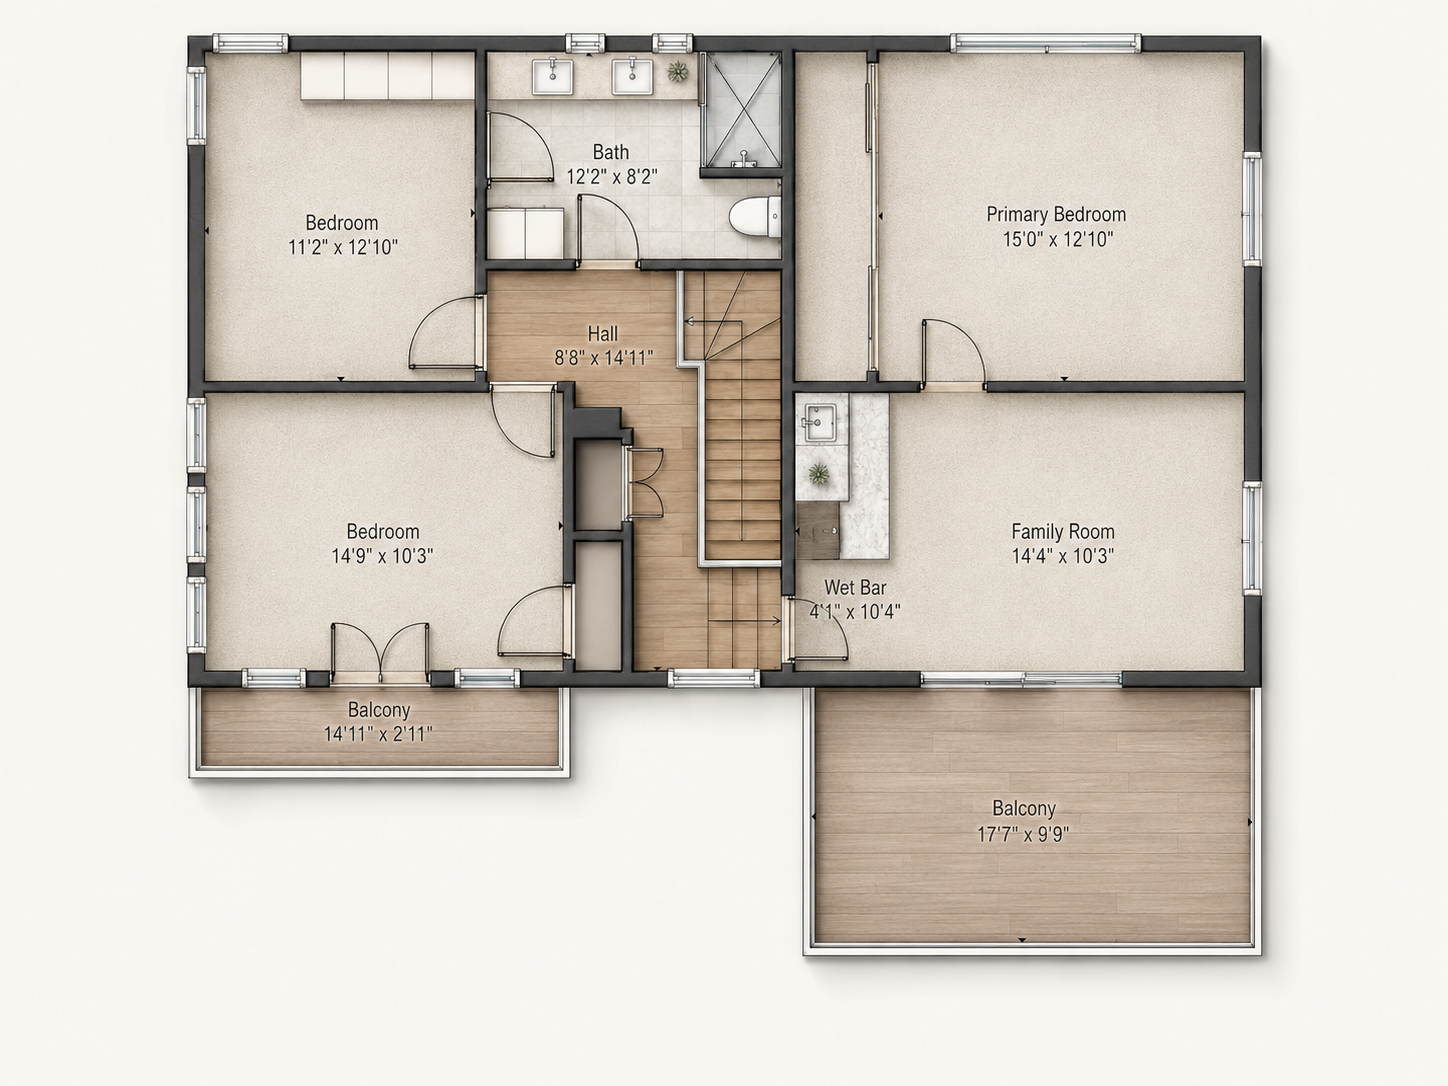
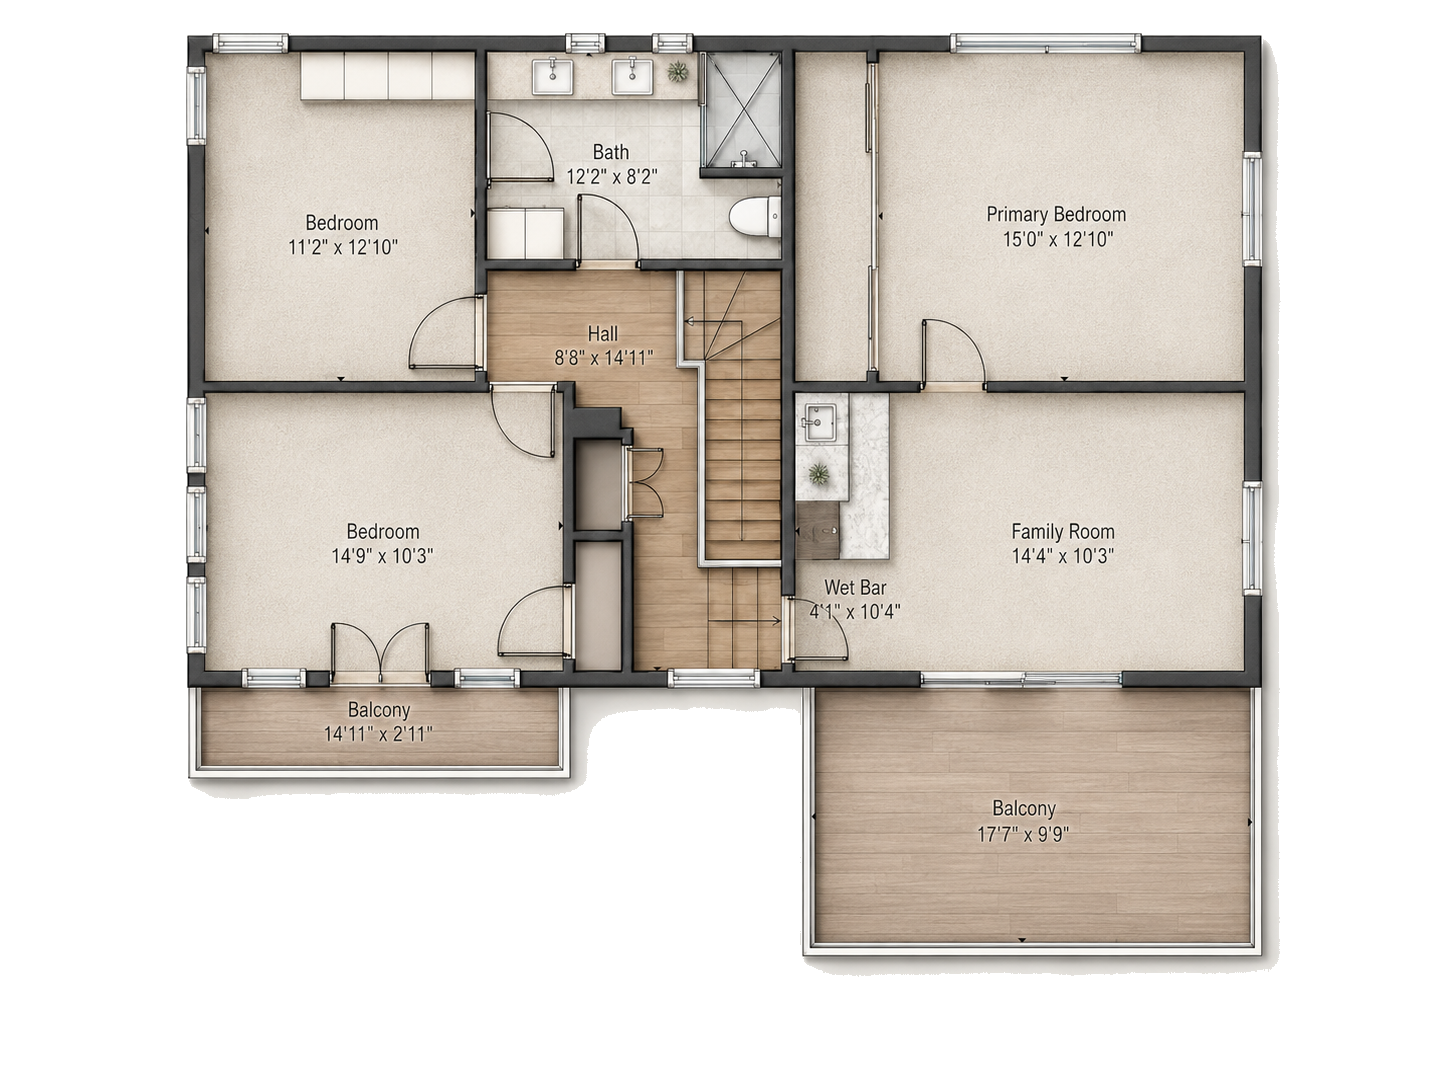
847 Sierra Bonita: fix back-house baths (4 total), patio last in back gallery, drop 'Illustrated', transparent floor-plan bg, remove second-home rent est. + comps section

Changed region(s): [[0.5594, 0.0608, 0.9012, 0.9116], [0.1243, 0.7293, 0.404, 0.7597], [0.404, 0.6381, 0.5594, 0.7293]]

diff --git a/website/properties/847-n-sierra-bonita/index.html b/website/properties/847-n-sierra-bonita/index.html
@@ -4,7 +4,7 @@
 <meta charset="UTF-8">
 <meta name="viewport" content="width=device-width, initial-scale=1.0">
 <title>847 N Sierra Bonita Ave, Los Angeles CA 90046 — Two-Home Duplex Compound | AMRE</title>
-<meta name="description" content="847 N Sierra Bonita Ave — a rare two-home duplex compound in the heart of Los Angeles, held by one family for over 60 years. Front home 4 bd / 2 ba, back home 3 bd / 2.5 ba (two-story), on a 6,510 sq ft lot. Offered by AMRE Real Estate Group at Compass.">
+<meta name="description" content="847 N Sierra Bonita Ave — a rare two-home duplex compound in the heart of Los Angeles, held by one family for over 60 years. Front home 4 bd / 2 ba, back home 3 bd / 2 ba (two-story), on a 6,510 sq ft lot. Offered by AMRE Real Estate Group at Compass.">
 <meta name="author" content="AMRE Real Estate Group">
 <meta name="robots" content="index,follow,max-image-preview:large">
 <link rel="canonical" href="https://amre.group/properties/847-n-sierra-bonita/">
@@ -12,7 +12,7 @@
 <meta property="og:type" content="website">
 <meta property="og:site_name" content="AMRE Real Estate Group">
 <meta property="og:title" content="847 N Sierra Bonita Ave — Two-Home Duplex Compound | Los Angeles">
-<meta property="og:description" content="A rare two-home duplex compound in the heart of L.A., held by one family for 60+ years. 7 bd · 4.5 ba · 3,391 sq ft combined on a 6,510 sq ft lot.">
+<meta property="og:description" content="A rare two-home duplex compound in the heart of L.A., held by one family for 60+ years. 7 bd · 4 ba · 3,391 sq ft combined on a 6,510 sq ft lot.">
 <link rel="preconnect" href="https://fonts.googleapis.com">
 <link rel="preconnect" href="https://fonts.gstatic.com" crossorigin>
 <link href="https://fonts.googleapis.com/css2?family=Cormorant+Garamond:wght@300;400;500;600&family=Jost:wght@300;400;500&display=swap" rel="stylesheet">
@@ -263,7 +263,7 @@
     <div class="cell"><div class="n">$2,150,000</div><div class="l">Offered At</div></div>
     <div class="cell"><div class="n">2</div><div class="l">Separate Homes</div></div>
     <div class="cell"><div class="n">7</div><div class="l">Bedrooms</div></div>
-    <div class="cell"><div class="n">4.5</div><div class="l">Baths</div></div>
+    <div class="cell"><div class="n">4</div><div class="l">Baths</div></div>
     <div class="cell"><div class="n">3,391</div><div class="l">Combined Sq Ft</div></div>
     <div class="cell"><div class="n">6,510</div><div class="l">Lot Sq Ft</div></div>
   </div>
@@ -356,7 +356,7 @@
     <p>Set at the rear of the lot, the back residence is a spacious two-story home with a family room, wet bar, private balconies, and an oversized primary suite — fully separate from the front home, with its own sense of arrival.</p>
     <ul class="facts">
       <li><span>Bedrooms</span><span>3</span></li>
-      <li><span>Bathrooms</span><span>2.5</span></li>
+      <li><span>Bathrooms</span><span>2</span></li>
       <li><span>Interior</span><span>1,849 sq ft</span></li>
       <li><span>Configuration</span><span>Two-story + balconies</span></li>
     </ul>
@@ -370,8 +370,8 @@
   <figure><img class="lb" data-group="back" src="847-assets/bg5.jpg" alt="Back home bedroom"></figure>
   <figure><img class="lb" data-group="back" src="847-assets/bg6.jpg" alt="Back home primary bath"></figure>
   <figure><img class="lb" data-group="back" src="847-assets/bg7.jpg" alt="Back home bath"></figure>
-  <figure><img class="lb" data-group="back" src="847-assets/bg8.jpg" alt="Back home terrace"></figure>
   <figure><img class="lb" data-group="back" src="847-assets/bg9.jpg" alt="Back home office"></figure>
+  <figure><img class="lb" data-group="back" src="847-assets/bg8.jpg" alt="Back home patio"></figure>
 </div></div>
 <!-- FLOOR PLANS -->
 <section class="cardsec tone" id="plans">
@@ -380,7 +380,7 @@
       <div class="eyebrow">Architectural Plans</div>
       <div class="rule" style="margin:18px auto"></div>
       <h2>Explore every level</h2>
-      <p class="big2x">Illustrated floor plans for both residences — the single-story front home, and the two-story home at the rear.</p>
+      <p class="big2x">Floor plans for both residences — the single-story front home, and the two-story home at the rear.</p>
     </div>
     <div class="plans-stack">
       <div class="planblock">
@@ -437,7 +437,7 @@
         <polygon points="95,60 430,60 430,215 395,300 200,300 200,252 95,252"
                  fill="#3f4a3c" stroke="#2b3329" stroke-width="2"/>
         <text x="250" y="150" text-anchor="middle" class="plabel" fill="#f7f4ee">Back Home</text>
-        <text x="250" y="171" text-anchor="middle" class="pmeta" fill="#e4dcca">3 bd · 2.5 ba · 1,849 sf</text>
+        <text x="250" y="171" text-anchor="middle" class="pmeta" fill="#e4dcca">3 bd · 2 ba · 1,849 sf</text>
         <text x="250" y="188" text-anchor="middle" class="pmeta" fill="#e4dcca">Two-story</text>
         <!-- dimensions -->
         <text x="434" y="16" text-anchor="middle" class="pdim">← approx. 130 ft (lot depth) →</text>
@@ -466,13 +466,12 @@
         <div class="num">Option 01</div>
         <h3>Live in Both</h3>
         <p>Spread out across the full compound — a main home plus a private guest house, studio, or multigenerational wing.</p>
-        <div class="fig"><b>7 bd · 4.5 ba</b><small>3,391 sq ft of living space</small></div>
+        <div class="fig"><b>7 bd · 4 ba</b><small>3,391 sq ft of living space</small></div>
       </div>
       <div class="opt">
         <div class="num">Option 02</div>
         <h3>Live in One, Rent the Other</h3>
         <p>Occupy one residence and lease the other to dramatically offset your monthly cost of ownership.</p>
-        <div class="fig"><b>$—,— / mo</b><small>Est. rent from the second home</small></div>
       </div>
       <div class="opt">
         <div class="num">Option 03</div>
@@ -482,33 +481,6 @@
       </div>
     </div>
     <p class="note">Rental estimates to be confirmed.</p>
-  </div>
-</section>
-<!-- COMPS -->
-<section class="cardsec tone" id="comps">
-  <div class="wrap">
-    <div class="head">
-      <div class="eyebrow">The Market</div>
-      <div class="rule" style="margin:18px auto"></div>
-      <h2>What's happening nearby</h2>
-      <p>Recent nearby sales and current rents that frame the value of 847 Sierra Bonita.</p>
-    </div>
-    <div class="subhead" style="margin-top:0">Recently Sold Comparables</div>
-    <div class="comp-grid">
-      <div class="comp"><div class="ph">Photo</div><div class="body"><div class="addr">[ Comp Address 1 ]</div><div class="meta">— bd · — ba · —,— sf</div><div class="price">$—,—</div></div></div>
-      <div class="comp"><div class="ph">Photo</div><div class="body"><div class="addr">[ Comp Address 2 ]</div><div class="meta">— bd · — ba · —,— sf</div><div class="price">$—,—</div></div></div>
-      <div class="comp"><div class="ph">Photo</div><div class="body"><div class="addr">[ Comp Address 3 ]</div><div class="meta">— bd · — ba · —,— sf</div><div class="price">$—,—</div></div></div>
-      <div class="comp"><div class="ph">Photo</div><div class="body"><div class="addr">[ Comp Address 4 ]</div><div class="meta">— bd · — ba · —,— sf</div><div class="price">$—,—</div></div></div>
-      <div class="comp"><div class="ph">Photo</div><div class="body"><div class="addr">[ Comp Address 5 ]</div><div class="meta">— bd · — ba · —,— sf</div><div class="price">$—,—</div></div></div>
-      <div class="comp"><div class="ph">Photo</div><div class="body"><div class="addr">[ Comp Address 6 ]</div><div class="meta">— bd · — ba · —,— sf</div><div class="price">$—,—</div></div></div>
-    </div>
-    <div class="subhead">Rental Comparables</div>
-    <div class="comp-grid">
-      <div class="comp"><div class="ph">Photo</div><div class="body"><div class="addr">[ Rental Comp 1 ]</div><div class="meta">— bd · — ba · —,— sf</div><div class="price">$—,— / mo</div></div></div>
-      <div class="comp"><div class="ph">Photo</div><div class="body"><div class="addr">[ Rental Comp 2 ]</div><div class="meta">— bd · — ba · —,— sf</div><div class="price">$—,— / mo</div></div></div>
-      <div class="comp"><div class="ph">Photo</div><div class="body"><div class="addr">[ Rental Comp 3 ]</div><div class="meta">— bd · — ba · —,— sf</div><div class="price">$—,— / mo</div></div></div>
-    </div>
-    <p class="note">Comparable sales and rents to be added.</p>
   </div>
 </section>
 <!-- SETTING / NEIGHBORHOOD -->